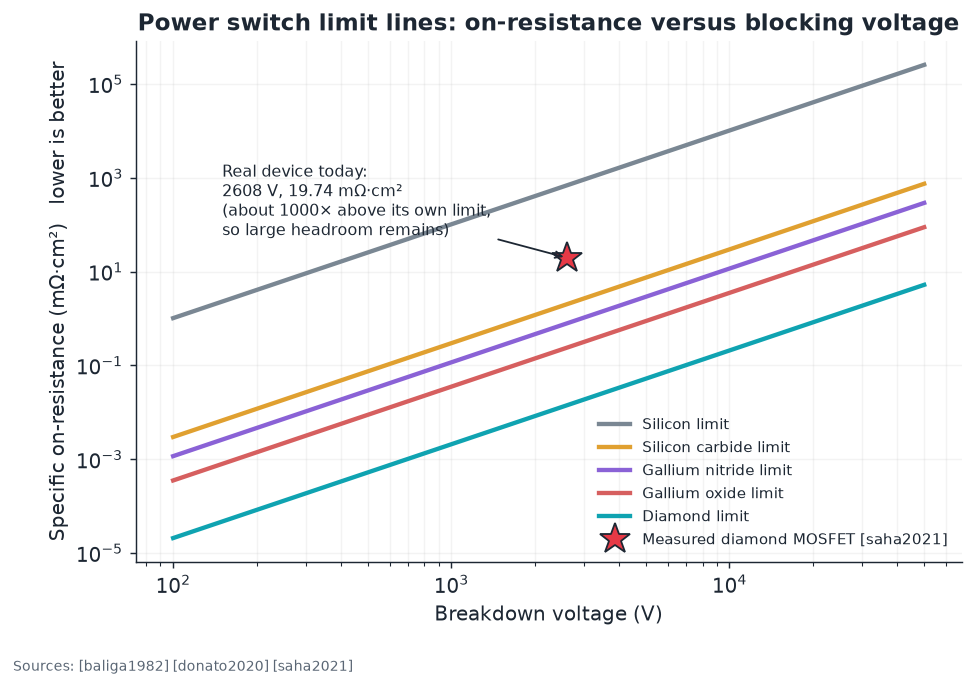
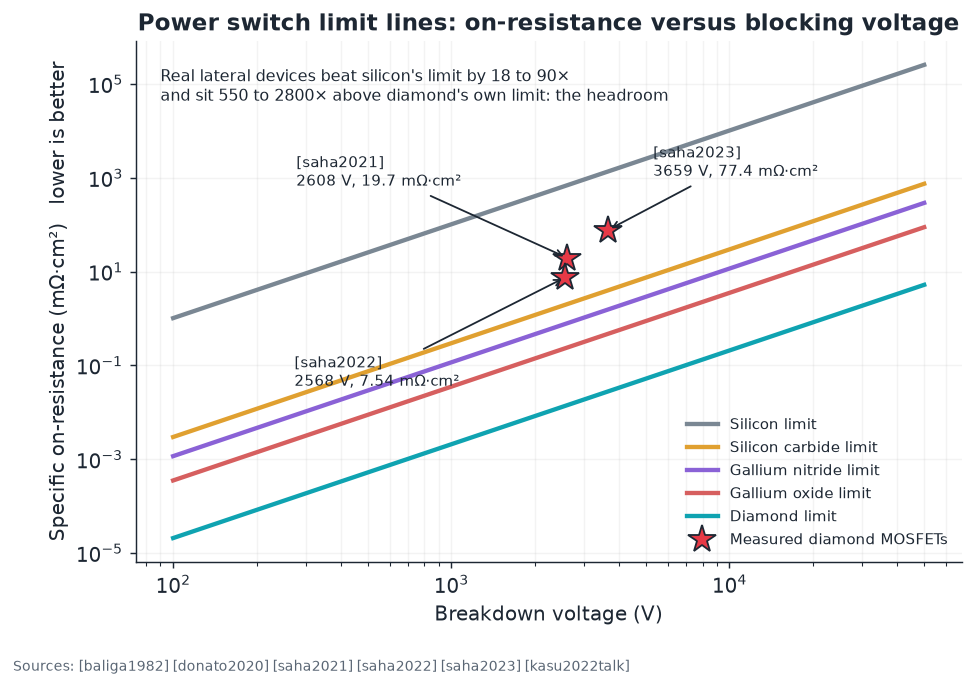
v0.3.0: echoed-gate error budget (Q-1), newer measured diamond MOSFETs, all references reviewed

diff --git a/adamas/gate_budget.py b/adamas/gate_budget.py
@@ -1,0 +1,86 @@
+"""Error budget for the room-temperature NV-NV entangling gate (expert-track project Q-1).
+
+The Lindblad model in adamas.opensys assumes Markovian noise. Real NV dephasing is dominated by a slow
+nuclear-spin bath, so coherence decays as exp(-(t/T2*)^2) in free evolution and, for a slow bath,
+exp(-(t/T2)^3) under a Hahn echo [hahn1950], [delange2010], [maze2008prb], [dobrovitski2008].
+
+Gate: H = 2 pi nu |11><11| = 2 pi nu (1 - Z1 - Z2 + Z1 Z2) / 4 with nu = 52 MHz nm^3 / r^3
+[neumann2010natphys], [dolde2013]. A simultaneous pi pulse on both spins at half time cancels every
+single-spin Z term (including quasi-static detuning) and keeps Z1 Z2, so the echo gate equals CZ up to
+local phases, with the same duration t = 1 / (2 nu).
+
+All noise here is diagonal and independent on the two spins. If spin k keeps a coherence factor w_k,
+the state fidelity of CZ|++> is exactly
+        F_coherent = (1 + w1)(1 + w2) / 4 .
+Preparation: each NV must be in the negative charge state (about 0.70 to 0.75 under green light
+[aslam2013]) and spin polarized [manson2006], [robledo2011njp]. With per-NV preparation probability q
+and no post-selection, a failed preparation is modeled as a fully mixed two-qubit state (fidelity 1/4):
+        F = q^2 (1 - eps)^n_pulses F_coherent + (1 - q^2) / 4 .
+Double-quantum encoding (|+1>, |-1> as the qubit on both NVs) quadruples the coupling and doubles the
+sensitivity to magnetic noise, a technique used in NV-NV coupling experiments [neumann2010natphys], [dolde2013].
+
+This is a model of this repository. It does not claim to know the sample parameters of any published
+experiment; it shows which parameter combinations are consistent with reported fidelities
+(0.67 [dolde2013], 0.82 [dolde2014]).
+"""
+from __future__ import annotations
+from dataclasses import dataclass
+import numpy as np
+from .coupling import dipolar_coupling_khz
+
+
+@dataclass(frozen=True)
+class GateBudget:
+    r_nm: float = 25.0
+    t2star_us: float = 30.0          # free-induction dephasing time of each NV
+    t2_us: float = 600.0             # Hahn-echo time of each NV
+    echo: bool = True
+    double_quantum: bool = False
+    q_prep: float = 1.0              # per-NV probability of correct charge and spin state (1 = post-selected)
+    pulse_error: float = 0.0         # error per pi or pi/2 pulse
+    n_pulses: int = 6
+
+    @property
+    def nu_khz(self) -> float:
+        return float(dipolar_coupling_khz(self.r_nm)) * (4.0 if self.double_quantum else 1.0)
+
+    @property
+    def t_gate_us(self) -> float:
+        return 1e3 / (2 * self.nu_khz)
+
+    @property
+    def w(self) -> float:
+        """Single-spin coherence factor at the end of the gate."""
+        k = 2.0 if self.double_quantum else 1.0          # double-quantum coherence sees twice the field noise
+        if self.echo:
+            return float(np.exp(-(self.t_gate_us * k ** (2 / 3) / self.t2_us) ** 3))
+        return float(np.exp(-(self.t_gate_us * k / self.t2star_us) ** 2))
+
+    @property
+    def f_coherent(self) -> float:
+        return (1 + self.w) ** 2 / 4
+
+    @property
+    def fidelity(self) -> float:
+        good = self.q_prep ** 2
+        return good * (1 - self.pulse_error) ** self.n_pulses * self.f_coherent + (1 - good) / 4
+
+    def breakdown(self) -> dict:
+        """Infidelity attributed to each mechanism, switching them on one at a time."""
+        ideal = GateBudget(self.r_nm, 1e9, 1e9, self.echo, self.double_quantum, 1.0, 0.0, self.n_pulses)
+        deph = GateBudget(self.r_nm, self.t2star_us, self.t2_us, self.echo, self.double_quantum, 1.0, 0.0, self.n_pulses)
+        puls = GateBudget(self.r_nm, self.t2star_us, self.t2_us, self.echo, self.double_quantum, 1.0, self.pulse_error, self.n_pulses)
+        return {"dephasing": ideal.fidelity - deph.fidelity, "pulses": deph.fidelity - puls.fidelity,
+                "preparation": puls.fidelity - self.fidelity, "total_fidelity": self.fidelity}
+
+
+def required_t2_us(r_nm: float, target: float, double_quantum: bool = False) -> float:
+    """Echo T2 (both spins equal, perfect preparation and pulses) needed to reach a target fidelity."""
+    lo, hi = 1.0, 1e7
+    for _ in range(80):
+        mid = (lo * hi) ** 0.5
+        if GateBudget(r_nm, 1e9, mid, True, double_quantum).fidelity >= target:
+            hi = mid
+        else:
+            lo = mid
+    return hi

diff --git a/adamas/figures_expert.py b/adamas/figures_expert.py
@@ -1,4 +1,4 @@
-"""Expert-track figures (17 to 25). Same rule as adamas.figures: every plotted number or equation carries a [bibkey]."""
+"""Expert-track figures (17 to 26). Same rule as adamas.figures: every plotted number or equation carries a [bibkey]."""
 from __future__ import annotations
 
 from pathlib import Path
@@ -6,7 +6,7 @@ from pathlib import Path
 import matplotlib.pyplot as plt
 import numpy as np
 
-from . import analog, coupling, digital, litho, opensys, qec
+from . import analog, coupling, digital, gate_budget, litho, opensys, qec
 from .figures import COLORS, GOLD, GREEN, INK, RED, _finish
 
 
@@ -214,8 +214,44 @@ def fig_stack_map(out: Path) -> Path:
     return _finish(fig, out, "fig25_length_scales.png", "[e6orbray2026] [liu2017] [chen2017] [dolde2013] [asmleuv2026] [pezzagna2010] [wort2008]")
 
 
+def fig_gate_budget(out: Path) -> Path:
+    r = np.linspace(6, 40, 60)
+    fig, axes = plt.subplots(1, 2, figsize=(13.5, 4.8))
+    ax = axes[0]
+    ax.plot(r, [opensys.cz_gate_fidelity(x, 0.6) for x in r], color=COLORS["Si"], lw=2.2, ls="--",
+            label="Markovian (Lindblad), T₂ = 0.6 ms: pessimistic")
+    ax.plot(r, [gate_budget.GateBudget(x, t2_us=600).fidelity for x in r], color=COLORS["Diamond"], lw=2.6,
+            label="Slow bath + echo, T₂ = 0.6 ms")
+    ax.plot(r, [gate_budget.GateBudget(x, t2_us=600, double_quantum=True).fidelity for x in r], color=RED, lw=2.6,
+            label="Same, double-quantum encoding (4× coupling)")
+    ax.plot(r, [gate_budget.GateBudget(x, echo=False).fidelity for x in r], color=INK, lw=1.4, ls=":",
+            label="No echo, T₂* = 30 µs")
+    ax.axhline(0.99, color=INK, ls=":", lw=1)
+    ax.set_ylim(0.0, 1.01)
+    ax.set_xlabel("Distance between NV centers (nm)")
+    ax.set_ylabel("Gate fidelity (perfect preparation and pulses)")
+    ax.set_title("Echoed gate: coherence is no longer the bottleneck", fontsize=11)
+    ax.legend(fontsize=8.5, loc="lower left")
+    ax.grid(True, alpha=0.15)
+    ax = axes[1]
+    q = np.linspace(0.5, 1.0, 90)
+    eps = np.linspace(0.0, 0.05, 90)
+    z = np.array([[gate_budget.GateBudget(25.0, t2_us=600, q_prep=a, pulse_error=e).fidelity for a in q] for e in eps])
+    im = ax.contourf(q, eps * 100, z, levels=np.linspace(0.25, 1.0, 16), cmap="viridis")
+    cs = ax.contour(q, eps * 100, z, levels=[0.67, 0.82, 0.99], colors=["white", "white", GOLD], linewidths=2)
+    ax.clabel(cs, fmt={0.67: "0.67 [dolde2013]", 0.82: "0.82 [dolde2014]", 0.99: "0.99"}, fontsize=8.5)
+    ax.axvspan(0.70, 0.75, color=RED, alpha=0.25)
+    ax.text(0.725, 4.6, "NV⁻ fraction under\ngreen light [aslam2013]", ha="center", va="top", fontsize=8.5, color="white")
+    ax.set_xlabel("Per-NV preparation probability q (charge state × spin polarization)")
+    ax.set_ylabel("Error per pulse (%)")
+    ax.set_title("At 25 nm: which imperfections give 0.67 and 0.82?", fontsize=11)
+    fig.colorbar(im, ax=ax, label="Gate fidelity")
+    return _finish(fig, out, "fig26_gate_error_budget.png",
+                   "[dolde2013] [dolde2014] [aslam2013] [mizuochi2009] [delange2010] [neumann2010natphys]; adamas.gate_budget model")
+
+
 ALL = [fig_litho_tools, fig_litho_stochastics, fig_processor_landscape, fig_logic_scaling, fig_analog, fig_lindblad,
-       fig_bath_and_dd, fig_qec, fig_stack_map]
+       fig_bath_and_dd, fig_qec, fig_stack_map, fig_gate_budget]
 
 
 def make_all(out: str | Path = "docs/img") -> list[Path]:

diff --git a/adamas/figures.py b/adamas/figures.py
@@ -90,17 +90,20 @@ def fig_ron_bv(out: Path) -> Path:
         carrier = "p" if k == "Diamond" else "n"
         ax.loglog(bv, [power.ron_sp_mohm_cm2(m, v, carrier) for v in bv], color=COLORS[k], lw=2.4,
                   label=f"{SHORT[k].replace(chr(10), ' ')} limit")
-    pt = power.MEASURED_DIAMOND["saha2021"]
-    ax.plot(pt["bv_v"], pt["ron_mohm_cm2"], "*", ms=18, color=RED, mec=INK, label="Measured diamond MOSFET [saha2021]")
-    ax.annotate("Real device today:\n2608 V, 19.74 mΩ·cm²\n(about 1000× above its own limit,\nso large headroom remains)",
-                (pt["bv_v"], pt["ron_mohm_cm2"]), xytext=(150, 60), fontsize=9,
-                arrowprops=dict(arrowstyle="->", color=INK))
+    for key, (dx, dy) in {"saha2021": (-150, 40), "saha2022": (-150, -60), "saha2023": (25, 30)}.items():
+        pt = power.MEASURED_DIAMOND[key]
+        ax.plot(pt["bv_v"], pt["ron_mohm_cm2"], "*", ms=16, color=RED, mec=INK,
+                label="Measured diamond MOSFETs" if key == "saha2021" else None)
+        ax.annotate(f"[{key}]\n{pt['bv_v']:.0f} V, {pt['ron_mohm_cm2']:.3g} mΩ·cm²", (pt["bv_v"], pt["ron_mohm_cm2"]),
+                    xytext=(dx, dy), textcoords="offset points", fontsize=8.5, arrowprops=dict(arrowstyle="->", color=INK))
+    ax.text(0.03, 0.95, "Real lateral devices beat silicon's limit by 18 to 90×\nand sit 550 to 2800× above diamond's own limit: the headroom",
+            transform=ax.transAxes, fontsize=9, va="top")
     ax.set_xlabel("Breakdown voltage (V)")
     ax.set_ylabel("Specific on-resistance (mΩ·cm²)   lower is better")
     ax.set_title("Power switch limit lines: on-resistance versus blocking voltage")
     ax.legend(fontsize=8.5, loc="lower right")
     ax.grid(True, which="both", alpha=0.15)
-    return _finish(fig, out, "fig03_ron_vs_bv.png", "[baliga1982] [donato2020] [saha2021]")
+    return _finish(fig, out, "fig03_ron_vs_bv.png", "[baliga1982] [donato2020] [saha2021] [saha2022] [saha2023] [kasu2022talk]")
 
 
 def fig_ionization(out: Path) -> Path:

diff --git a/tests/test_expert.py b/tests/test_expert.py
@@ -91,3 +91,29 @@ def test_ring_oscillator_runs():
                          capture_output=True, text=True).stdout
     period = [l for l in out.splitlines() if l.startswith("period")]
     assert period and 5e-9 < float(period[0].split("=")[1].split()[0]) < 1e-7
+
+
+def test_gate_budget_limits_and_closed_form():
+    from adamas.gate_budget import GateBudget, required_t2_us
+    perfect = GateBudget(10.0, t2star_us=1e9, t2_us=1e9)
+    assert math.isclose(perfect.fidelity, 1.0, abs_tol=1e-12)
+    assert math.isclose(GateBudget(25.0, echo=False, t2star_us=1.0).fidelity, 0.25, abs_tol=1e-6)      # fully dephased
+    assert math.isclose(GateBudget(25.0, q_prep=0.0).fidelity, 0.25, abs_tol=1e-12)                      # never prepared
+    g = GateBudget(25.0)
+    assert math.isclose(g.fidelity, (1 + g.w) ** 2 / 4, rel_tol=1e-12)
+    assert GateBudget(25.0, double_quantum=True).t_gate_us == g.t_gate_us / 4
+    assert GateBudget(25.0, double_quantum=True).fidelity > g.fidelity
+    assert required_t2_us(25, 0.99) > required_t2_us(10, 0.99)
+    parts = GateBudget(25.0, q_prep=0.85, pulse_error=0.01).breakdown()
+    assert math.isclose(1 - parts["total_fidelity"], parts["dephasing"] + parts["pulses"] + parts["preparation"], rel_tol=1e-9)
+
+
+def test_gate_budget_matches_lindblad_for_pure_dephasing_form():
+    # for diagonal noise the closed form F = (1 + w)^2 / 4 must agree with the master-equation result
+    import numpy as np
+    from adamas import opensys
+    from adamas.coupling import dipolar_coupling_khz
+    r, t2_ms = 20.0, 1.0
+    t_gate_us = 1e3 / (2 * float(dipolar_coupling_khz(r)))
+    w = np.exp(-t_gate_us / (t2_ms * 1e3))
+    assert math.isclose(opensys.cz_gate_fidelity(r, t2_ms, t1_ms=1e9), (1 + w) ** 2 / 4, rel_tol=1e-6)

diff --git a/adamas/power.py b/adamas/power.py
@@ -11,7 +11,19 @@ import math
 from .materials import Material, permittivity_f_cm
 
 # Measured lateral diamond MOSFET on a 2-inch-class heteroepitaxial wafer [saha2021]:
-MEASURED_DIAMOND = {"saha2021": {"bv_v": 2608.0, "ron_mohm_cm2": 19.74}}
+# Measured lateral NO2-doped diamond MOSFETs from one group, on heteroepitaxial wafers. Baliga figure of merit = BV^2 / R_on,sp.
+#   saha2021: 2608 V, 345 MW/cm^2                                      [saha2021]
+#   saha2022: 2568 V, 7.54 mOhm cm^2, 874.6 MW/cm^2 (polished surface) [saha2022]; numbers as reported in [kasu2022talk]
+#   saha2023: 3659 V, 173 MW/cm^2; R_on,sp derived here as BV^2 / BFOM [saha2023]
+MEASURED_DIAMOND = {
+    "saha2021": {"bv_v": 2608.0, "ron_mohm_cm2": 19.74},
+    "saha2022": {"bv_v": 2568.0, "ron_mohm_cm2": 7.54},
+    "saha2023": {"bv_v": 3659.0, "ron_mohm_cm2": 3659.0 ** 2 / 173e6 * 1e3},
+}
+
+
+def bfom_mw_cm2(bv_v: float, ron_mohm_cm2: float) -> float:
+    return bv_v ** 2 / (ron_mohm_cm2 * 1e-3) / 1e6
 
 
 def ron_sp_mohm_cm2(m: Material, bv_v: float, carrier: str = "n") -> float:

diff --git a/tools/verify_refs.py b/tools/verify_refs.py
@@ -57,6 +57,10 @@ def compare(ref, hit: dict) -> tuple[bool, float, list[str]]:
     theirs_title = (hit.get("title") or [""])[0]
     sim = max(difflib.SequenceMatcher(None, _norm(ref.title), _norm(theirs_title)).ratio(),
               difflib.SequenceMatcher(None, _squash(ref.title), _squash(theirs_title)).ratio())
+    a, b = _norm(ref.title), _norm(theirs_title)
+    shorter, longer = sorted((a, b), key=len)
+    if len(shorter.split()) >= 3 and longer.startswith(shorter):
+        sim = max(sim, 0.90)                 # publishers often deposit the main title without its subtitle
     if sim <= 0.85:
         problems.append("title differs")
     year = _year(hit)

diff --git a/tests/test_classical.py b/tests/test_classical.py
@@ -30,6 +30,8 @@ def test_on_resistance_scaling_and_measured_point():
     ideal = power.ron_sp_mohm_cm2(c, 2608, "p")
     measured = power.MEASURED_DIAMOND["saha2021"]["ron_mohm_cm2"]
     assert ideal < measured < power.ron_sp_mohm_cm2(si, 2608)
+    for key, bfom in {"saha2021": 345, "saha2022": 875, "saha2023": 173}.items():      # reported figures of merit, MW/cm^2
+        assert math.isclose(power.bfom_mw_cm2(**power.MEASURED_DIAMOND[key]), bfom, rel_tol=0.01)
 
 
 def test_transit_frequency():

diff --git a/examples/01_why_diamond.py b/examples/01_why_diamond.py
@@ -16,4 +16,5 @@ bv = 2608.0
 print(f"\nIdeal specific on-resistance at {bv:.0f} V (milliohm cm^2):")
 for key, m in materials.MATERIALS.items():
     print(f"  {key:8s} {power.ron_sp_mohm_cm2(m, bv, 'p' if key == 'Diamond' else 'n'):10.4f}")
-print("  measured diamond MOSFET [saha2021]:", power.MEASURED_DIAMOND["saha2021"]["ron_mohm_cm2"])
+for key, pt in power.MEASURED_DIAMOND.items():
+    print(f"  measured diamond MOSFET [{key}]: {pt['ron_mohm_cm2']:.2f} at {pt['bv_v']:.0f} V")

diff --git a/adamas/__init__.py b/adamas/__init__.py
@@ -3,6 +3,6 @@ nitrogen-vacancy (NV) quantum processors.
 
 Every formula in this package carries a ``[bibkey]`` that resolves in references/REFERENCES.md.
 """
-__version__ = "0.2.3"
+__version__ = "0.3.0"
 from . import constants, materials, doping, thermal, wafer, power, logic, nv, coupling, register  # noqa: F401
-from . import litho, digital, analog, opensys, qec  # noqa: F401,E402
+from . import litho, digital, analog, opensys, qec, gate_budget  # noqa: F401,E402

diff --git a/tools/refs_common.py b/tools/refs_common.py
@@ -5,7 +5,8 @@ from pathlib import Path
 
 ROOT = Path(__file__).resolve().parents[1]
 REF_FILES = [ROOT / "references" / "refs_a.psv", ROOT / "references" / "refs_b.psv",
-             ROOT / "references" / "refs_c.psv"]
+             ROOT / "references" / "refs_c.psv",
+             ROOT / "references" / "refs_d.psv"]
 
 TAG_NAMES = {
     "mat": "Materials physics and figures of merit",

diff --git a/references/REFERENCES.md b/references/REFERENCES.md
@@ -1,6 +1,6 @@
 # References
 
-**466 references.** 435 are verified (marked ✅): matched against Crossref on title, year, first author, and volume by `tools/verify_refs.py`, or checked against an online source while the repository was built. 420 carry a Digital Object Identifier (DOI) fetched from Crossref; none is typed by hand, so a mistyped DOI can never point at the wrong paper. Entries marked 📚 are books, reports, conference papers, or items still awaiting review; human decisions about those are recorded in `references/verification_overrides.psv`.
+**470 references.** 441 are verified (marked ✅): matched against Crossref on title, year, first author, and volume by `tools/verify_refs.py`, or checked against an online source while the repository was built. 425 carry a Digital Object Identifier (DOI) fetched from Crossref; none is typed by hand, so a mistyped DOI can never point at the wrong paper. Entries marked 📚 are books, reports, conference papers, or items still awaiting review; human decisions about those are recorded in `references/verification_overrides.psv`.
 
 Cite in the docs and code as `[key]`. `python tools/check_citations.py` fails if a key is missing here.
 
@@ -115,7 +115,7 @@ Cite in the docs and code as `[key]`. `python tools/check_citations.py` fails if
 - ✅ **`[verona2016]`** Verona, C.; Ciccognani, W.; Colangeli, S.; et al. (2016). Comparative investigation of surface transfer doping of hydrogen terminated diamond by high electron affinity insulators. *Journal of Applied Physics*, 120, 025104. [doi:10.1063/1.4955469](https://doi.org/10.1063/1.4955469)
 - ✅ **`[crawford2021]`** Crawford, K. G.; Maini, I.; Macdonald, D. A.; Moran, D. A. J. (2021). Surface transfer doping of diamond: a review. *Progress in Surface Science*, 96, 100613. [doi:10.1016/j.progsurf.2021.100613](https://doi.org/10.1016/j.progsurf.2021.100613)
 
-## Devices and circuits (39)
+## Devices and circuits (42)
 
 - ✅ **`[kawarada1994]`** Kawarada, H.; Aoki, M.; Ito, M. (1994). Enhancement mode metal-semiconductor field effect transistors using homoepitaxial diamonds. *Applied Physics Letters*, 65, 1563. [doi:10.1063/1.112915](https://doi.org/10.1063/1.112915)
 - ✅ **`[aleksov2003]`** Aleksov, A.; Kubovic, M.; Kaeb, N.; et al. (2003). Diamond field effect transistors - concepts and challenges. *Diamond and Related Materials*, 12, 391. [doi:10.1016/s0925-9635(02)00401-6](https://doi.org/10.1016/s0925-9635(02)00401-6)
@@ -151,7 +151,10 @@ Cite in the docs and code as `[key]`. `python tools/check_citations.py` fails if
 - ✅ **`[saha2020]`** Saha, N. C.; Oishi, T.; Kim, S.-W.; Kawamata, Y.; Koyama, K.; Kasu, M. (2020). 145-MW/cm2 heteroepitaxial diamond MOSFETs with NO2 p-type doping and an Al2O3 passivation layer. *IEEE Electron Device Letters*, 41, 1066.
 - ✅ **`[ibrahim2021]`** Ibrahim, M. I.; Foy, C.; Englund, D. R.; Han, R. (2021). High-scalability CMOS quantum magnetometer with spin-state excitation and detection of diamond color centers. *IEEE Journal of Solid-State Circuits*, 56, 1001. [doi:10.1109/jssc.2020.3027056](https://doi.org/10.1109/jssc.2020.3027056)
 - ✅ **`[saha2021]`** Saha, N. C.; Kim, S.-W.; Oishi, T.; Kawamata, Y.; Koyama, K.; Kasu, M. (2021). 345-MW/cm2 2608-V NO2 p-type doped diamond MOSFETs with an Al2O3 passivation overlayer on heteroepitaxial diamond. *IEEE Electron Device Letters*, 42, 903. [doi:10.1109/led.2021.3075687](https://doi.org/10.1109/led.2021.3075687)
+- ✅ **`[saha2022]`** Saha, N. C.; Kim, S.-W.; Oishi, T.; Kasu, M. (2022). 875-MW/cm2 low-resistance NO2 p-type doped chemical mechanical planarized diamond MOSFETs. *IEEE Electron Device Letters*, 43, 777. [doi:10.1109/led.2022.3164603](https://doi.org/10.1109/led.2022.3164603)
+- ✅ **`[saha2022mod]`** Saha, N. C.; Kim, S.-W.; Oishi, T.; Kasu, M. (2022). 3326-V modulation-doped diamond MOSFETs. *IEEE Electron Device Letters*, 43, 1303. [doi:10.1109/led.2022.3181444](https://doi.org/10.1109/led.2022.3181444)
 - ✅ **`[sasama2022]`** Sasama, Y.; Kageura, T.; Imura, M.; et al. (2022). High-mobility p-channel wide-bandgap transistors based on hydrogen-terminated diamond/hexagonal boron nitride heterostructures. *Nature Electronics*, 5, 37. [doi:10.1038/s41928-021-00689-4](https://doi.org/10.1038/s41928-021-00689-4)
+- ✅ **`[saha2023]`** Saha, N. C.; Kim, S.-W.; Koyama, K.; Oishi, T.; Kasu, M. (2023). 3659-V NO2 p-type doped diamond MOSFETs on misoriented heteroepitaxial diamond substrates. *IEEE Electron Device Letters*, 44, 112. [doi:10.1109/led.2022.3226426](https://doi.org/10.1109/led.2022.3226426)
 - ✅ **`[liao2024]`** Liao, M.; Sun, H.; Koizumi, S. (2024). High-temperature and high-electron mobility metal-oxide-semiconductor field-effect transistors based on n-type diamond. *Advanced Science*, 11(13), 2306013. [doi:10.1002/advs.202306013](https://doi.org/10.1002/advs.202306013)
 - ✅ **`[zhao2024]`** Zhao, W.; Koizumi, S.; Liao, M. (2024). P-channel MOSFETs on phosphorous-doped n-type diamond. *IEEE Electron Device Letters*, 45(12), 2268. [doi:10.1109/led.2024.3485683](https://doi.org/10.1109/led.2024.3485683)
 - ✅ **`[chu2025]`** Chu, C.; Yang, S.; et al. (2025). GaN/diamond complementary power circuit (reported via Power Electronics Magazine; original: 71st IEEE International Electron Devices Meeting). *IEEE IEDM Technical Digest*, p. 26.8.1.
@@ -370,8 +373,9 @@ Cite in the docs and code as `[key]`. `python tools/check_citations.py` fails if
 - ✅ **`[li2024]`** Li, L.; De Santis, L.; Harris, I. B. W.; et al. (2024). Heterogeneous integration of spin-photon interfaces with a CMOS platform. *Nature*, 630, 70. [doi:10.1038/s41586-024-07371-7](https://doi.org/10.1038/s41586-024-07371-7)
 - ✅ **`[stolk2024]`** Stolk, A. J.; van der Enden, K. L.; Slater, M.-C.; et al. (2024). Metropolitan-scale heralded entanglement of solid-state qubits. *Science Advances*, 10, eadp6442. [doi:10.1126/sciadv.adp6442](https://doi.org/10.1126/sciadv.adp6442)
 
-## Industry and news (2025-2026) (8)
+## Industry and news (2025-2026) (9)
 
+- ✅ **`[kasu2022talk]`** Kasu, M. (2022). 2-inch diamond wafer growth and high-power diamond MOSFET fabrication (seminar abstract reporting 2568 V, 7.54 mOhm cm2, 874.6 MW/cm2). *MIT.nano seminar series*, 29 November 2022.
 - ✅ **`[olcf2025]`** Oak Ridge Leadership Computing Facility (2025). Q&A: Inside Quantum Brilliance's quantum computer technology. *OLCF news*, 2 September 2025.
 - ✅ **`[e6orbray2026]`** Semiconductor Today (2026). Element Six and Orbray accelerate wafer-scale single-crystal diamond for volume production. *Semiconductor Today (news)*, 16 June 2026.
 - ✅ **`[ookuma2026]`** Jiji Press (2026). Diamond semiconductor plant completed in northeastern Japan. *Jiji Press (news)*, 29 May 2026.
@@ -404,7 +408,7 @@ Cite in the docs and code as `[key]`. `python tools/check_citations.py` fails if
 - 📚 **`[mack2007]`** Mack, C. A. (2007). Fundamental Principles of Optical Lithography: The Science of Microfabrication. *Wiley*.
 - ✅ **`[grigorescu2009]`** Grigorescu, A. E.; Hagen, C. W. (2009). Resists for sub-20-nm electron beam lithography with a focus on HSQ: state of the art. *Nanotechnology*, 20, 292001. [doi:10.1088/0957-4484/20/29/292001](https://doi.org/10.1088/0957-4484/20/29/292001)
 - ✅ **`[kozawa2010]`** Kozawa, T.; Tagawa, S. (2010). Radiation chemistry in chemically amplified resists. *Japanese Journal of Applied Physics*, 49, 030001. [doi:10.1143/jjap.49.030001](https://doi.org/10.1143/jjap.49.030001)
-- 📚 **`[wagner2010]`** Wagner, C.; Harned, N. (2010). EUV lithography: lithography gets extreme. *Nature Photonics*, 4, 24.
+- ✅ **`[wagner2010]`** Wagner, C.; Harned, N. (2010). Lithography gets extreme. *Nature Photonics*, 4, 24. [doi:10.1038/nphoton.2009.251](https://doi.org/10.1038/nphoton.2009.251)
 - ✅ **`[fuechsle2012]`** Fuechsle, M.; Miwa, J. A.; Mahapatra, S.; et al. (2012). A single-atom transistor. *Nature Nanotechnology*, 7, 242. [doi:10.1038/nnano.2012.21](https://doi.org/10.1038/nnano.2012.21)
 - ✅ **`[manfrinato2013]`** Manfrinato, V. R.; Zhang, L.; Su, D.; et al. (2013). Resolution limits of electron-beam lithography toward the atomic scale. *Nano Letters*, 13, 1555. [doi:10.1021/nl304715p](https://doi.org/10.1021/nl304715p)
 - ✅ **`[khanaliloo2015]`** Khanaliloo, B.; Mitchell, M.; Hryciw, A. C.; Barclay, P. E. (2015). High-Q/V monolithic diamond microdisks fabricated with quasi-isotropic etching. *Nano Letters*, 15, 5131. [doi:10.1021/acs.nanolett.5b01346](https://doi.org/10.1021/acs.nanolett.5b01346)
@@ -433,7 +437,7 @@ Cite in the docs and code as `[key]`. `python tools/check_citations.py` fails if
 - ✅ **`[shulaker2013]`** Shulaker, M. M.; Hills, G.; Patil, N.; et al. (2013). Carbon nanotube computer. *Nature*, 501, 526. [doi:10.1038/nature12502](https://doi.org/10.1038/nature12502)
 - 📚 **`[wolf2013]`** Wolf, C.; Glaser, J.; Kepler, J. (2013). Yosys - a free Verilog synthesis suite. *Proceedings of the 21st Austrian Workshop on Microelectronics (Austrochip)*, conference paper.
 - 📚 **`[patterson2017]`** Patterson, D. A.; Hennessy, J. L. (2017). Computer Organization and Design RISC-V Edition: The Hardware Software Interface. *Morgan Kaufmann*.
-- 📚 **`[ajayi2019]`** Ajayi, T.; Chhabria, V. A.; Fogaca, M.; et al. (2019). Toward an open-source digital flow: first learnings from the OpenROAD project. *Proceedings of the 56th Design Automation Conference (DAC)*, article 76.
+- ✅ **`[ajayi2019]`** Ajayi, T.; Chhabria, V. A.; Fogaca, M.; et al. (2019). Toward an open-source digital flow: first learnings from the OpenROAD project. *Proceedings of the 56th Design Automation Conference (DAC)*, article 76. [doi:10.1145/3316781.3326334](https://doi.org/10.1145/3316781.3326334)
 - ✅ **`[hills2019]`** Hills, G.; Lau, C.; Wright, A.; et al. (2019). Modern microprocessor built from complementary carbon nanotube transistors. *Nature*, 572, 595. [doi:10.1038/s41586-019-1493-8](https://doi.org/10.1038/s41586-019-1493-8)
 - ✅ **`[neudeck2019]`** Neudeck, P. G.; Spry, D. J.; Krasowski, M. J.; et al. (2019). Operational testing of 4H-SiC JFET ICs for 60 days directly exposed to Venus surface atmospheric conditions. *IEEE Journal of the Electron Devices Society*, 7, 100. [doi:10.1109/jeds.2018.2882693](https://doi.org/10.1109/jeds.2018.2882693)
 - 📚 **`[waterman2019]`** Waterman, A.; Asanovic, K. (Eds.) (2019). The RISC-V Instruction Set Manual, Volume I: Unprivileged ISA, Document Version 20191213. *RISC-V Foundation*.

diff --git a/README.md b/README.md
@@ -1,7 +1,7 @@
 <p align="center"><img src="docs/img/hero.svg" alt="ADAMAS: a scientific framework for diamond-wafer electronics, from crystal growth to room-temperature quantum processors" width="100%"></p>
 
 <p align="center">
-<b>466 references</b> · <b>25 reproducible figures</b> · <b>22 chapters</b> · <b>tested Python, SPICE, and Verilog</b> · <b>65 proposed experiments and projects</b>
+<b>470 references</b> · <b>26 reproducible figures</b> · <b>22 chapters</b> · <b>tested Python, SPICE, and Verilog</b> · <b>65 proposed experiments and projects</b>
 </p>
 
 > **ADAMAS** (Greek *adámas*, "unconquerable," the root of the word *diamond*) is an open, fully referenced framework for building electronics on **diamond wafers instead of silicon wafers**: how to make the wafer, how to process it, how to build analog, digital, and quantum circuits on it, and how all of that compares with today's silicon industry. Its central quantum idea is the **nitrogen-vacancy (NV) center**, an atom-sized defect in diamond that works as a quantum bit (qubit) **at room temperature**.
@@ -84,7 +84,7 @@ Silicon chips already use the "diamond cubic" lattice. Diamond is that lattice w
 
 ![Figures of merit](docs/img/fig02_figures_of_merit.png)
 
-A real diamond transistor on a wafer-scale substrate already blocks 2608 V [saha2021]. It beats silicon's theoretical limit by about 35 times and still sits about 1000 times above diamond's own limit, which marks the room left to improve ([Chapter 4](docs/04_analog_power_rf_devices.md)).
+Real diamond transistors on wafer-scale substrates already block 2608 V [saha2021] and 3659 V [saha2023], and the best on-resistance so far, 7.54 mΩ·cm² at 2568 V ([saha2022], [kasu2022talk]), beats silicon's theoretical limit by about 90 times. All of them still sit 550 to 2800 times above diamond's own limit, which marks the room left to improve ([Chapter 4](docs/04_analog_power_rf_devices.md)).
 
 <p align="center"><img src="docs/img/fig03_ron_vs_bv.png" width="70%" alt="On-resistance versus breakdown voltage"></p>
 
@@ -145,7 +145,7 @@ flowchart TB
 | ✅ Demonstrated (peer reviewed) | 🧪 Proposed here |
 |---|---|
 | 2- and 3-inch-class single-crystal wafers ([kim2021], [schreck2017]) | Detect-and-repair NV arrays with laser writing (C-5) |
-| 2608 V diamond MOSFET [saha2021]; operation at 400 °C [kawarada2014] | Hole-gas transistors and NV qubits on one patterned-termination chip (C-7) |
+| 2608 V and 3659 V diamond MOSFETs ([saha2021], [saha2023]); operation at 400 °C [kawarada2014] | Hole-gas transistors and NV qubits on one patterned-termination chip (C-7) |
 | Inverter, NOR, NAND logic [liu2017]; first n-channel MOSFET [liao2024] | On-chip photoelectric qubit readout through a diamond switch (C-6) |
 | Room-temperature gates above the fault-tolerance threshold [rong2015] | Nuclear-nuclear entanglement across two NV centers at 300 K (C-8) |
 | Room-temperature quantum error correction [waldherr2014] | 16-cell microscope-free chiplet on CMOS (F-1) |
@@ -174,7 +174,7 @@ flowchart LR
 | E2 | [Process integration and a process design kit (PDK)](docs/expert/E2_process_integration_and_pdk.md) | A six-mask "PDK-0" with monitor structures, a compact-model ladder, and an open-source flow |
 | E3 | [Digital and processor design](docs/expert/E3_digital_and_cpu_design.md) | **DIA-4**, a working 4-bit processor synthesized to 830 to 900 diamond transistors; static power caps single-polarity diamond logic near 10⁴ gates |
 | E4 | [Analog and mixed signal](docs/expert/E4_analog_and_mixed_signal_design.md) | Threshold-difference references replace bandgaps; the picoampere qubit-readout noise budget |
-| E5 | [NV qubit engineering](docs/expert/E5_nv_qubit_engineering.md) | Lindblad gate model tightens the spacing rule to about 12 nm; bath and decoupling models reproduce published $T_2^{*}$ and $T_2$ |
+| E5 | [NV qubit engineering](docs/expert/E5_nv_qubit_engineering.md) | With an echoed gate, 25 nm spacing is enough for coherence; charge-state preparation becomes the bottleneck. Bath and decoupling models reproduce published $T_2^{*}$ and $T_2$ |
 | E6 | [Error correction and architecture](docs/expert/E6_error_correction_and_system_architecture.md) | 145 NV cells per logical qubit at 10⁻³ error; link fidelity matters more than qubit count |
 | E7 | [Beyond](docs/expert/E7_beyond_the_framework.md) | Masers, hyperpolarization, gyroscopes, simulators, harsh-environment systems, rival hosts, six moonshots |
 | E8 | [Project ladder](docs/expert/E8_projects_and_thesis_topics.md) | Every experiment sized from a weekend to a multi-group program |
@@ -208,7 +208,7 @@ flowchart LR
 | 12 | [Silicon versus diamond scorecard](docs/12_silicon_vs_diamond_scorecard.md) | Row-by-row comparison |
 | 13 | [Economics and risk](docs/13_economics_and_risk.md) | Product sequence and risk register |
 | E1–E8 | [Expert track](docs/expert/) | Lithography → design kit → processors → analog → qubit engineering → error correction → beyond → projects |
-| — | [Glossary](docs/glossary.md) · [All 466 references](references/REFERENCES.md) · [BibTeX](references/references.bib) · [Ubuntu development guide](docs/DEVELOPMENT_UBUNTU.md) | |
+| — | [Glossary](docs/glossary.md) · [All 470 references](references/REFERENCES.md) · [BibTeX](references/references.bib) · [Ubuntu development guide](docs/DEVELOPMENT_UBUNTU.md) | |
 
 ## ⚙ Quick start
 
@@ -218,7 +218,7 @@ cd adamas-diamond-framework
 sudo apt install -y ngspice iverilog yosys      # optional: circuit and logic tools
 conda env create -f environment.yml && conda activate adamas
 
-python -m pytest -q                     # 32 tests, including the citation check
+python -m pytest -q                     # 35 tests, including the citation check
 make spice rtl synth                    # ngspice ring oscillator; DIA-4 processor simulation and synthesis
 python examples/01_why_diamond.py       # figures of merit, doping, on-resistance
 python examples/02_nv_qubit_basics.py   # resonance lines, coupling, register fidelity
@@ -242,6 +242,7 @@ Full step-by-step terminal guide, including GitHub publishing: [docs/DEVELOPMENT
 | `adamas.digital` | Delay, power, and gate budgets for single-polarity logic; reference processors | [rabaey2003], [faggin1996], [biggs2021] |
 | `adamas.analog` | gm/I_D, gain, mismatch, noise, references, photocurrent readout budget | [silveira1996], [pelgrom1989], [blauschild1978] |
 | `adamas.opensys` | Lindblad two-qubit gate, carbon-13 bath, dynamical decoupling | [lindblad1976], [maze2008prb], [delange2010] |
+| `adamas.gate_budget` | Non-Markovian error budget of the echoed NV–NV gate: dephasing, pulses, preparation | [delange2010], [aslam2013], [dolde2013] |
 | `adamas.qec` | Surface-code overhead mapped to NV cells | [fowler2012], [waldherr2014] |
 | `adamas.figures`, `adamas.figures_expert` | Every figure in this repository | all of the above |
 | `circuits/spice`, `circuits/digital` | ngspice decks; DIA-4 Verilog, cell library, Yosys flow | [nagel1973], [wolf2013], [liu2017] |
@@ -252,7 +253,7 @@ Full step-by-step terminal guide, including GitHub publishing: [docs/DEVELOPMENT
 2. `tools/check_citations.py` runs in continuous integration and fails the build on any unknown key.
 3. Models that originate in this repository (the gate-fidelity bound, the placement Monte Carlo, the yield plot's defect densities) are labeled as such wherever they appear.
 
-**Honest status of the reference list.** 34 of the 466 entries (marked ✅) were checked against an online source while this repository was written. The remaining entries (marked 📚) were entered from knowledge of the literature and **may contain errors in volume, page, or year**. No Digital Object Identifiers (DOIs) were typed by hand. Before citing anything in a paper, run:
+**Honest status of the reference list.** About 440 of the 470 entries (marked ✅) are verified: matched against Crossref on title, year, first author, and volume, with their Digital Object Identifiers (DOIs) fetched automatically into `references/dois.psv`, or checked against an online source while the repository was written. The rest (marked 📚) are books, reports, conference papers, and a few items not indexed by Crossref; human decisions about those are logged in `references/verification_overrides.psv`. No DOI is typed by hand. To re-verify after adding references:
 
 ```bash
 python tools/verify_refs.py        # queries Crossref, writes references/verification_report.csv
